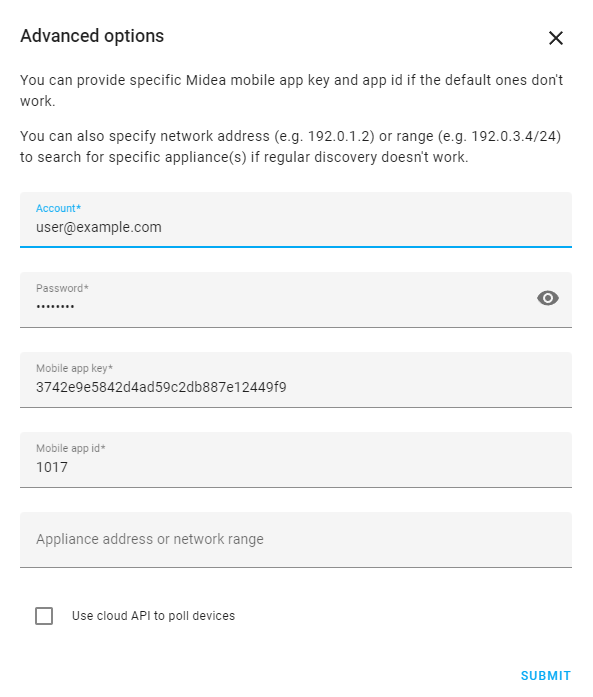
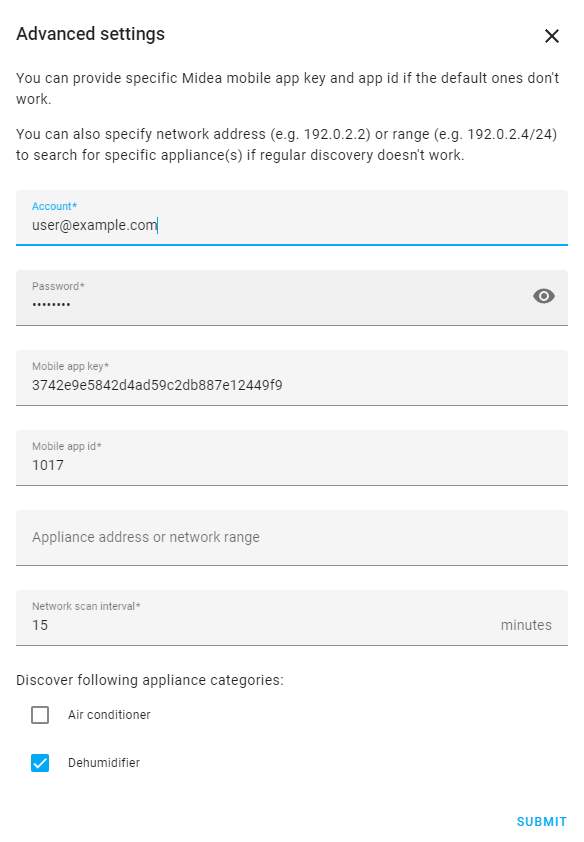
Add documentation, mark A/C support as beta

diff --git a/custom_components/midea_dehumidifier_lan/appliance_discovery.py b/custom_components/midea_dehumidifier_lan/appliance_discovery.py
@@ -45,6 +45,7 @@ from custom_components.midea_dehumidifier_lan.const import (
 )
 from custom_components.midea_dehumidifier_lan.util import (
     AbstractHub,
+    RedactedConf,
     address_ok,
     supported_appliance,
 )
@@ -332,7 +333,7 @@ class ApplianceDiscoveryHelper:  # pylint: disable=too-many-instance-attributes
                     has_discoverable = True
         self.conf_addresses += [
             item
-            for item in self.hub.config.get(CONF_BROADCAST_ADDRESS, [])
+            for item in self.hub.config.get(CONF_BROADCAST_ADDRESS, []) or []
             if item and item != LOCAL_BROADCAST
         ]
         self.broadcast_addresses = [LOCAL_BROADCAST]
@@ -349,19 +350,34 @@ class ApplianceDiscoveryHelper:  # pylint: disable=too-many-instance-attributes
     def start(self) -> None:
         """Starts periodic disovery of devices"""
         self.stop()
-        self._setup()
-        scan_interval = self.hub.config.get(CONF_SCAN_INTERVAL, DEFAULT_SCAN_INTERVAL)
-        if scan_interval:
-            _LOGGER.debug(
-                "Starting periodic discovery with interval %s minute(s),"
-                " broadcast %s, configured %s",
-                scan_interval,
-                self.broadcast_addresses,
-                self.conf_addresses,
+        try:
+            self._setup()
+            scan_interval = self.hub.config.get(
+                CONF_SCAN_INTERVAL, DEFAULT_SCAN_INTERVAL
             )
-            self.remove_discovery = async_track_time_interval(
-                self.hass, self._async_discover, timedelta(minutes=scan_interval)
+            if scan_interval:
+                _LOGGER.debug(
+                    "Starting periodic discovery with interval %s minute(s),"
+                    " broadcast %s, configured %s",
+                    scan_interval,
+                    self.broadcast_addresses,
+                    self.conf_addresses,
+                )
+                self.remove_discovery = async_track_time_interval(
+                    self.hass, self._async_discover, timedelta(minutes=scan_interval)
+                )
+        except Exception as ex:
+            _LOGGER.error(
+                "Unable to setup up periodic discovery."
+                " Please remove integration and then reinstall it to check if problem"
+                " can be fixed."
+                " Cause: %s"
+                " Configuration: %s",
+                ex,
+                RedactedConf(self.hub.config),
             )
+            self.stop()
+            raise ex
 
     def stop(self) -> None:
         """Stops periodic disovery of devices"""
@@ -373,6 +389,7 @@ class ApplianceDiscoveryHelper:  # pylint: disable=too-many-instance-attributes
 
     async def _async_discover(self, _: datetime) -> None:
         """Discover Midea appliances on configured network interfaces."""
+
         addresses = list(address for address in self.broadcast_addresses)
         if new_addresses := next(self.address_iterator, None):
             addresses += new_addresses

diff --git a/custom_components/midea_dehumidifier_lan/const.py b/custom_components/midea_dehumidifier_lan/const.py
@@ -101,7 +101,7 @@ DISCOVERY_MODE_EXPLANATION = {
 }
 
 SUPPORTED_APPLIANCES = {
-    APPLIANCE_TYPE_AIRCON: "Air conditioner",
+    APPLIANCE_TYPE_AIRCON: "Air conditioner (BETA)",
     APPLIANCE_TYPE_DEHUMIDIFIER: "Dehumidifier",
 }
 

diff --git a/info.md b/info.md
@@ -89,7 +89,8 @@ In addition to this, climate entity will have additonal attributes describing ca
 ## Installation
 
 1. Click Install.
-1. In the HA UI go to "Configuration" -> "Integrations" click "+" and search for "Midea Air Appliances (LAN)".
+2. In the HA UI go to "Configuration" -> "Integrations" click "+" and search for "Midea Air Appliances (LAN)".
+3. If you want to use integration with air conditioner unit(s), please select the checkbox on "Advanced settings" page.
 
 {% endif %}
 
@@ -100,7 +101,7 @@ In addition to this, climate entity will have additonal attributes describing ca
 ![Search for "Midea Air Appliances (LAN)"](https://github.com/nbogojevic/homeassistant-midea-air-appliances-lan/raw/main/assets/setup-choice.png)
 * Sign-in with Midea app account - you may choose Midea app that corresponds to one you use (anyone should work).
 ![Setup Midea App account"](https://github.com/nbogojevic/homeassistant-midea-air-appliances-lan/raw/main/assets/setup-account.png)
-* On advanced options dialog you may enter another application key if you want, specify a network range to be used for discovery or choose to rely on cloud polling. If you don't specify network range, the integration will scan all local network interfaces.
+* On advanced options dialog you may enter another application key if you want, specify a network range to be used for discovery or choose to rely on cloud polling. If you don't specify network range, the integration will scan all local network interfaces. If you want to use custom component with an air conditioner unit, please select the appropriate checkbox.
 ![Advanced options"](https://github.com/nbogojevic/homeassistant-midea-air-appliances-lan/raw/main/assets/advanced-options.png)
 * For devices that are known to cloud service, but not discovered locally, you will have another prompt to enter details if you know them or to specify that you want to rely on cloud polling for that device.
 ![Advanced options"](https://github.com/nbogojevic/homeassistant-midea-air-appliances-lan/raw/main/assets/appliance-missing.png)

diff --git a/README.md b/README.md
@@ -28,6 +28,7 @@ Once the integration is installed, you can add it to the Home Assistant by going
 2. Enter Midea cloud username and password. Those are the same used in NetHome Plus mobile application.
 3. The integration will discover appliance on local network(s).
 4. If an appliance is not automatically discovered, but is registered to the cloud account, user is prompted to enter IPv4 address of the appliance.
+5. If you want to use integration with air conditioner unit(s), please select the checkbox on "Advanced settings" page.
 
 ## Known issues
 
@@ -38,6 +39,7 @@ Once the integration is installed, you can add it to the Home Assistant by going
 * If you encounter issues after upgrading, uninstall the integration, restart Home Assistant and re-install it.
 * Some of sensors and switches are disabled by default. You need to enable them manually. See tables below for more information.
 * Temperature sensor on dehumidifier is often under-reporting real ambient temperature. This may be due to sensor proximity to cooling pipes of the humidifier, algorithm, or electronics error. The under-reporting depends on the active mode, and stronger modes may result in larger offset from real temperature.
+* Some Midea appliances, built in 2021 and later, use Tuya based patform and this integration will not work with them. In some cases those appliances have  have same model names as old ones.
 
 ## Supported appliances
 
